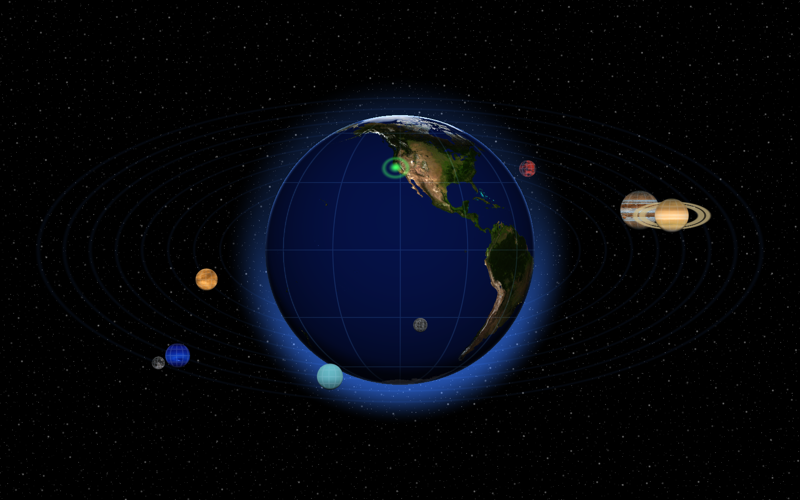
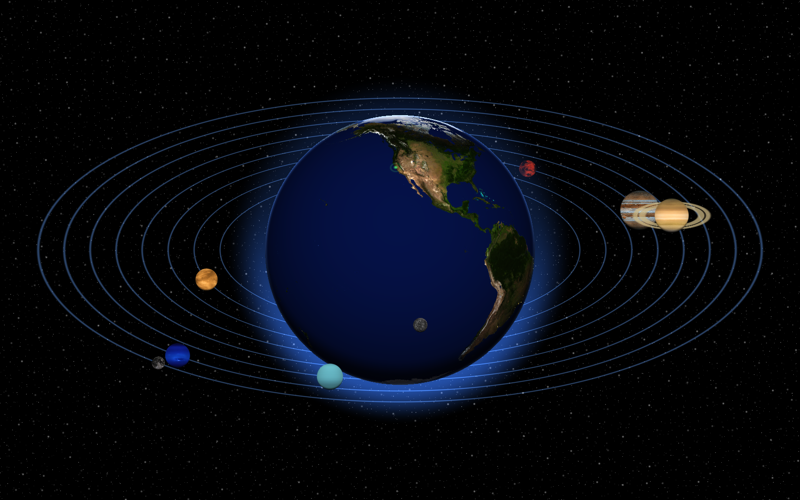
Add Black Hole screensaver; Universe orbit-line toggle + subtler marker
- Black Hole: gravitational-lensing raymarcher with accretion disk (blackbody +
  Doppler beaming), turbulence, starfield/nebula, ACES tonemap. Ported from a
  WebGPU/TSL shader to Metal. Adjustable Mass / Brightness / Rotation / Disk Size
- Universe: orbit lines now toggleable (Orbit Lines); green GPS marker made
  smaller and more subtle
- README: 40 effects

diff --git a/Shared/Effects.swift b/Shared/Effects.swift
@@ -33,7 +33,7 @@ enum EffectKind: String, Codable, CaseIterable {
     case pixelate, posterize, phosphor, scanlines, grain, vignette
     // cool pack
     case kaleidoscope, chromaticShift, bloom, hexMosaic, mirror, glitchBlocks
-    case gameboy, neonEdges, fisheye, swirl, ripple, toon, thermal, truchet, ledPanel, nes8bit, starfield, universe
+    case gameboy, neonEdges, fisheye, swirl, ripple, toon, thermal, truchet, ledPanel, nes8bit, starfield, universe, blackhole
 
     var displayName: String {
         switch self {
@@ -76,6 +76,7 @@ enum EffectKind: String, Codable, CaseIterable {
         case .nes8bit: return "NES 8-Bit"
         case .starfield: return "Starfield"
         case .universe: return "Universe"
+        case .blackhole: return "Black Hole"
         }
     }
 
@@ -86,7 +87,7 @@ enum EffectKind: String, Codable, CaseIterable {
         case .contour, .edge, .crosshatch, .wave: return .lines
         case .vhs, .scanlines, .grain, .pixelSort: return .glitch
         case .threshold, .posterize, .phosphor, .vignette: return .color
-        case .noiseField, .voronoi, .starfield, .universe: return .generative
+        case .noiseField, .voronoi, .starfield, .universe, .blackhole: return .generative
         case .hexMosaic, .ledPanel, .truchet: return .dotsDither
         case .gameboy, .bloom, .thermal, .toon, .nes8bit: return .color
         case .neonEdges: return .lines
@@ -126,6 +127,7 @@ enum EffectKind: String, Codable, CaseIterable {
         case .nes8bit:   return 36
         case .starfield: return 37
         case .universe:  return 39
+        case .blackhole: return 40
         case .edge:      return 12
         case .crosshatch:return 13
         case .contour:   return 14
@@ -218,7 +220,12 @@ enum EffectKind: String, Codable, CaseIterable {
         case .universe:  return [ParamSpec("earth", "Earth Size", 0.1, 0.45, def: 0.26),
                                  ParamSpec("spin", "Earth Spin", 0, 3, def: 0.5),
                                  ParamSpec("stars", "Stars", 3, 30, def: 10),
-                                 ParamSpec("planets", "Planet Speed", 0, 3, def: 1)]
+                                 ParamSpec("planets", "Planet Speed", 0, 3, def: 1),
+                                 ParamSpec("orbits", "Orbit Lines", 0, 1, def: 1, toggle: true)]
+        case .blackhole: return [ParamSpec("mass", "Mass", 0.15, 0.8, def: 0.4),
+                                 ParamSpec("brightness", "Brightness", 1, 10, def: 5),
+                                 ParamSpec("rot", "Rotation", -15, 15, def: -8.7),
+                                 ParamSpec("disk", "Disk Size", 0.5, 1.6, def: 1)]
         }
     }
 
@@ -230,7 +237,7 @@ enum EffectKind: String, Codable, CaseIterable {
 
     var defaultColorA: RGBA? {
         switch self {
-        case .dither, .threshold, .dots, .wave, .edge, .ascii, .matrix, .neonEdges, .starfield, .universe: return .black
+        case .dither, .threshold, .dots, .wave, .edge, .ascii, .matrix, .neonEdges, .starfield, .universe, .blackhole: return .black
         case .halftone, .crosshatch: return .paper
         case .contour, .truchet: return .ink
         default: return nil
@@ -302,6 +309,7 @@ extension EffectInstance {
         case .nes8bit:   u.p0 = .init(g("cell"), g("scan"), g("sat"), 0)
         case .starfield: u.p0 = .init(g("speed"), g("density"), g("warp"), g("size"))
         case .universe:  u.p0 = .init(g("earth"), g("spin"), g("stars"), g("planets"))
+        case .blackhole: u.p0 = .init(g("mass"), g("brightness"), g("rot"), g("disk"))
         }
     }
 }

diff --git a/Shared/DefaultPresets.swift b/Shared/DefaultPresets.swift
@@ -119,7 +119,10 @@ enum DefaultPresets {
                    effects: [fx(.starfield, ["speed": 2.2, "density": 16, "warp": 0.9, "size": 1.2],
                                 a: RGBA(0.02, 0.03, 0.08), b: .cyan)]),
             Preset(name: "Universe",
-                   effects: [fx(.universe, ["earth": 0.27, "spin": 0.5, "stars": 10, "planets": 1],
+                   effects: [fx(.universe, ["earth": 0.27, "spin": 0.5, "stars": 10, "planets": 1, "orbits": 1],
+                                a: .black)]),
+            Preset(name: "Black Hole",
+                   effects: [fx(.blackhole, ["mass": 0.4, "brightness": 5, "rot": -8.7, "disk": 1],
                                 a: .black)]),
         ]
     }

diff --git a/Shared/MetalRenderer.swift b/Shared/MetalRenderer.swift
@@ -211,7 +211,8 @@ final class MetalRenderer: NSObject, MTKViewDelegate {
                 if inst!.kind == .universe {
                     let a = MetalRenderer.astro(location: location)
                     u.p1 = simd_float4(a.sun.x, a.sun.y, a.sun.z, 0)
-                    u.p2 = simd_float4(a.userLon, a.userLat, a.hasLoc ? 1 : 0, 0)
+                    let orbits: Float = (inst!.params["orbits"] ?? 1) > 0.5 ? 1 : 0
+                    u.p2 = simd_float4(a.userLon, a.userLat, a.hasLoc ? 1 : 0, orbits)
                 }
             }
 

diff --git a/README.md b/README.md
@@ -29,7 +29,7 @@ between styles entirely inside the app**. Pick a source once (a gradient, an ima
 then flip through 36 GPU effects to see it dithered, halftoned, turned into Matrix rain, and more.
 
 - **One install, infinite styles** — switch the active screensaver from the sidebar, no Settings trip
-- **38 real-time Metal effects** — the full [grain.rad](https://grainrad.com) set, a complete dither
+- **40 real-time Metal effects** — the full [grain.rad](https://grainrad.com) set, a complete dither
   suite ([ditherit.com](https://ditherit.com) style: ordered, blue noise, 12 error-diffusion kernels,
   Riemersma), a "cool pack" (kaleidoscope, bloom, VHS, thermal…), plus **NES 8-bit** and an
   **adjustable starfield**
@@ -88,7 +88,7 @@ cp -R build/Build/Products/Release/DotStudio.app /Applications/
 | ![](docs/gallery/Game-Boy.png)<br>**Game Boy** | ![](docs/gallery/VHS.png)<br>**VHS** | ![](docs/gallery/Voronoi.png)<br>**Voronoi** |
 | ![](docs/gallery/Neon-Wire.png)<br>**Neon Edges** | ![](docs/gallery/Data-Glitch.png)<br>**Glitch Blocks** | ![](docs/gallery/Hex-Grid.png)<br>**Hex Mosaic** |
 
-### Full effect list (38)
+### Full effect list (40)
 
 - **Dots & Dither** — Dithering (Bayer 2×2/4×4/8×8, Blue Noise, Floyd–Steinberg, Atkinson, Jarvis-Judice-Ninke, Stucki, Burkes, Sierra ×3, Fan, Shiau-Fan ×2, Simple 2D, **Riemersma**), Halftone, Dots, Pixelate, Blockify, Hex Mosaic, LED Panel, Truchet
 - **Glyphs** — ASCII, Matrix Rain
@@ -96,7 +96,7 @@ cp -R build/Build/Products/Release/DotStudio.app /Applications/
 - **Glitch** — VHS, Scanlines, Grain, Chromatic Shift, Glitch Blocks, Pixel Sort
 - **Color** — Threshold, Posterize, Phosphor, Vignette, Game Boy, **NES 8-Bit**, Bloom, Thermal, Toon
 - **Warp & Mirror** — Kaleidoscope, Mirror, Fisheye, Swirl, Ripple
-- **Generative** — Noise Field, Voronoi, **Starfield**, **Universe** (real-time day/night Earth, planets & stars)
+- **Generative** — Noise Field, Voronoi, **Starfield**, **Universe** (real-time day/night Earth, planets & stars), **Black Hole** (gravitational lensing + accretion disk)
 
 > Error-diffusion and Riemersma dithers run on a GPU compute kernel; the rest are single-pass fragment shaders.
 